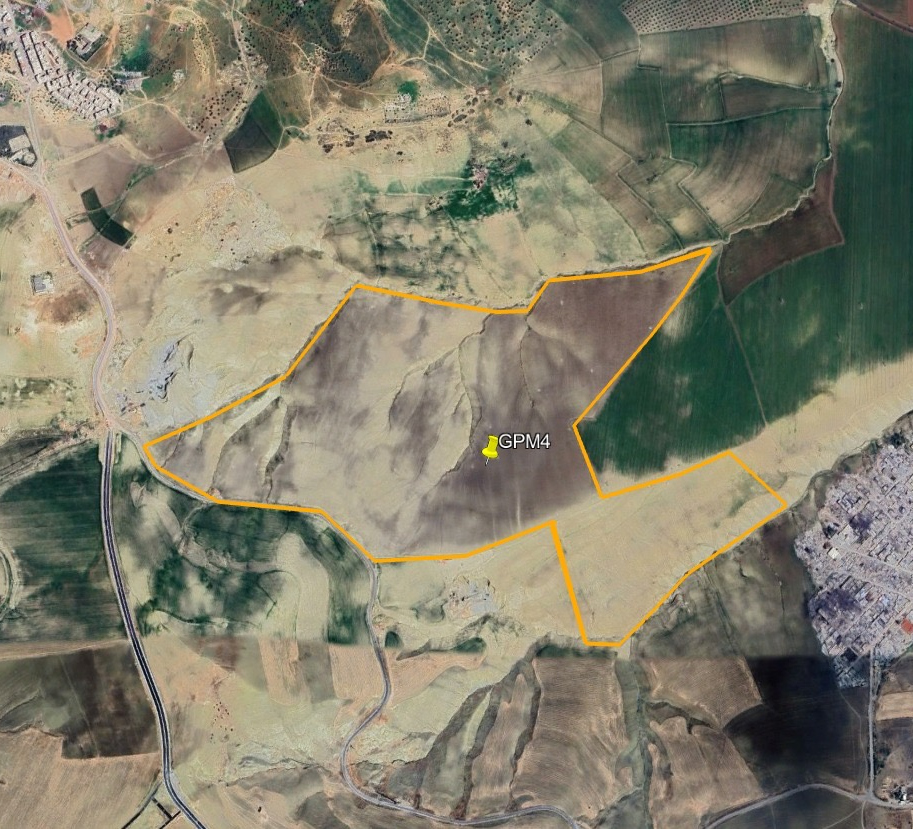
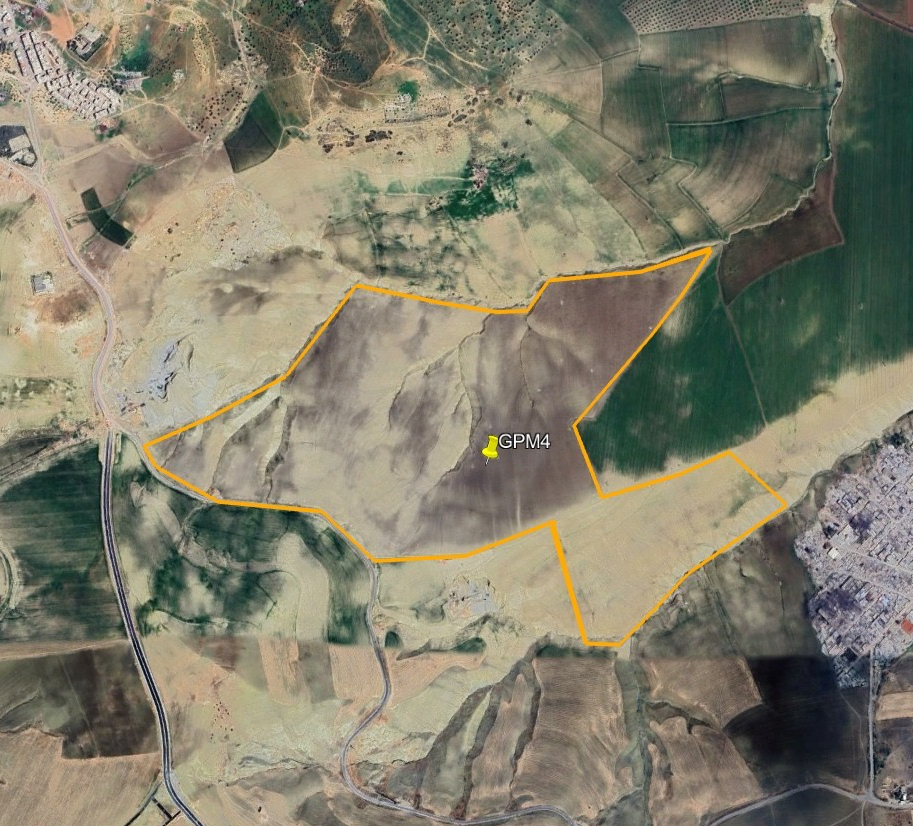
Update contact information

diff --git a/content/english/_index.md b/content/english/_index.md
@@ -20,7 +20,7 @@ hero_slider:
     # slider item
     - subtitle : "GPM Parks"
       title : "UTILITY-SCALE SOLAR GENERATION"
-      content : "Utility-scale solar plants are designed to operate for 25-30 years with minimal degradation."
+      content : "Utility-scale solar plants are designed to operate for 25-30 years <br>with minimal degradation."
       bg_image_webp : "images/slider/09.png"
       bg_image : "images/slider/09.png"
       animation : "fadeInLeft" # animation select from : https://daneden.github.io/animate.css/
@@ -87,7 +87,7 @@ about:
   image : "images/about/image3.jpeg"
   button:
     enable : true;
-    label : "more service"
+    label : "more services"
     link : "#contacts"
 
 ################################## funfacts ###############################
